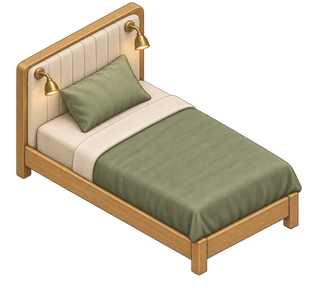
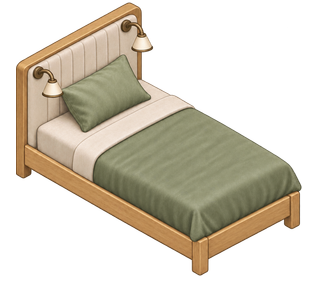
asset(#133): make premium bed headboard lamps clearer in four views

diff --git a/assets/issue-133-lot-1/README.md b/assets/issue-133-lot-1/README.md
@@ -43,6 +43,14 @@ Lô 1 thuộc #133; không đóng toàn bộ issue khi gộp riêng lô này. Cl
 
 ## Xem ảnh duyệt
 
+### Sửa theo review PR #152 — đèn đầu giường
+
+Đổi đèn nhỏ của `bed-premium_a/b/c/d` sang chao kem, viền và tay cong bằng đồng tối để dễ nhận ra hơn ở kích thước sprite. Cùng hai đèn gắn đầu giường ở cả bốn hướng; mặt lưng giữ che khuất tự nhiên. Giữ nguyên khung 320×288, neo và chân đế. Kiểm tra so với commit `8738d5a`: chỉ bốn PNG này đổi, 108 sprite khác giữ nguyên.
+
+![So sánh trước/sau và bản 96 px](bed-premium-lights-review.webp)
+
+Prompt chỉnh sửa trong [review-bed-premium-lights.json](review-bed-premium-lights.json); `prepare.cjs` nạp các prompt này khi tái xuất. `node assets/issue-133-lot-1/review-premium.cjs` kiểm tra phạm vi bốn ảnh và tạo ảnh so sánh.
+
 ![Tổng quan 28 mẫu](models-a.webp)
 
 ![Đặt thử trên phòng trọ và lưới 8×8](room-grid-preview.webp)
